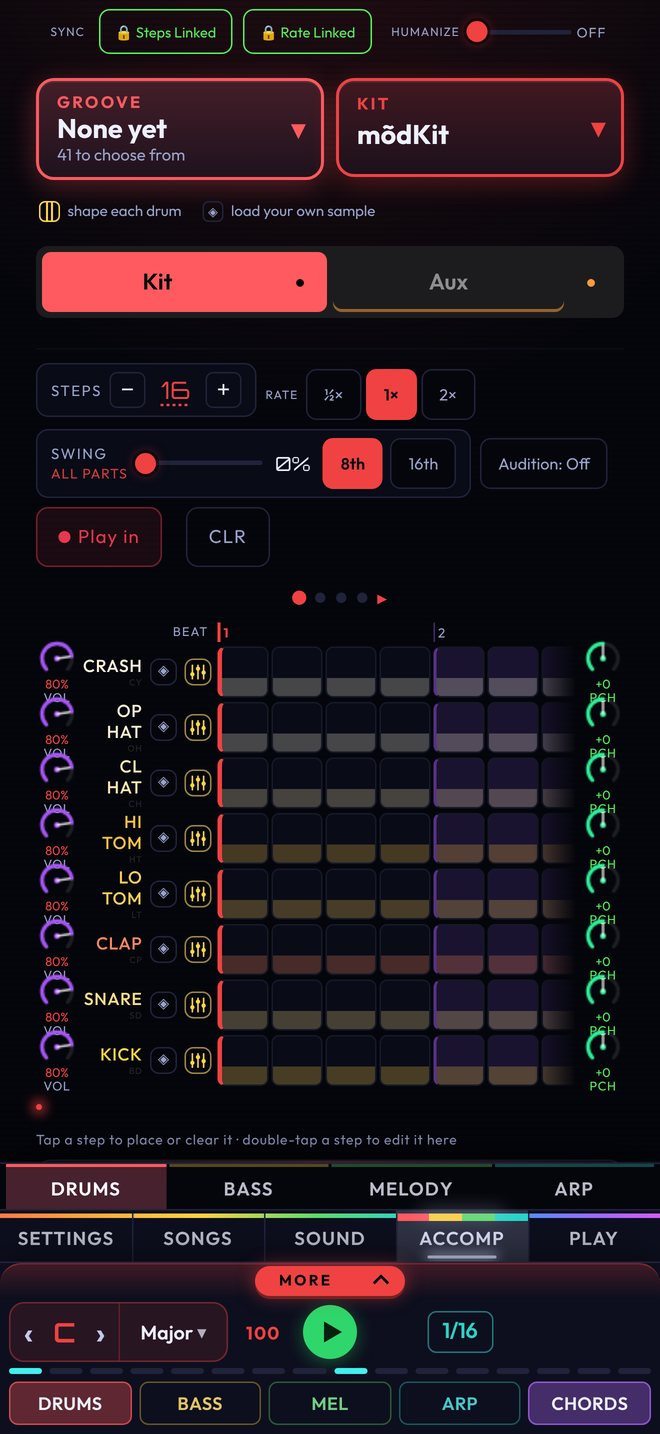
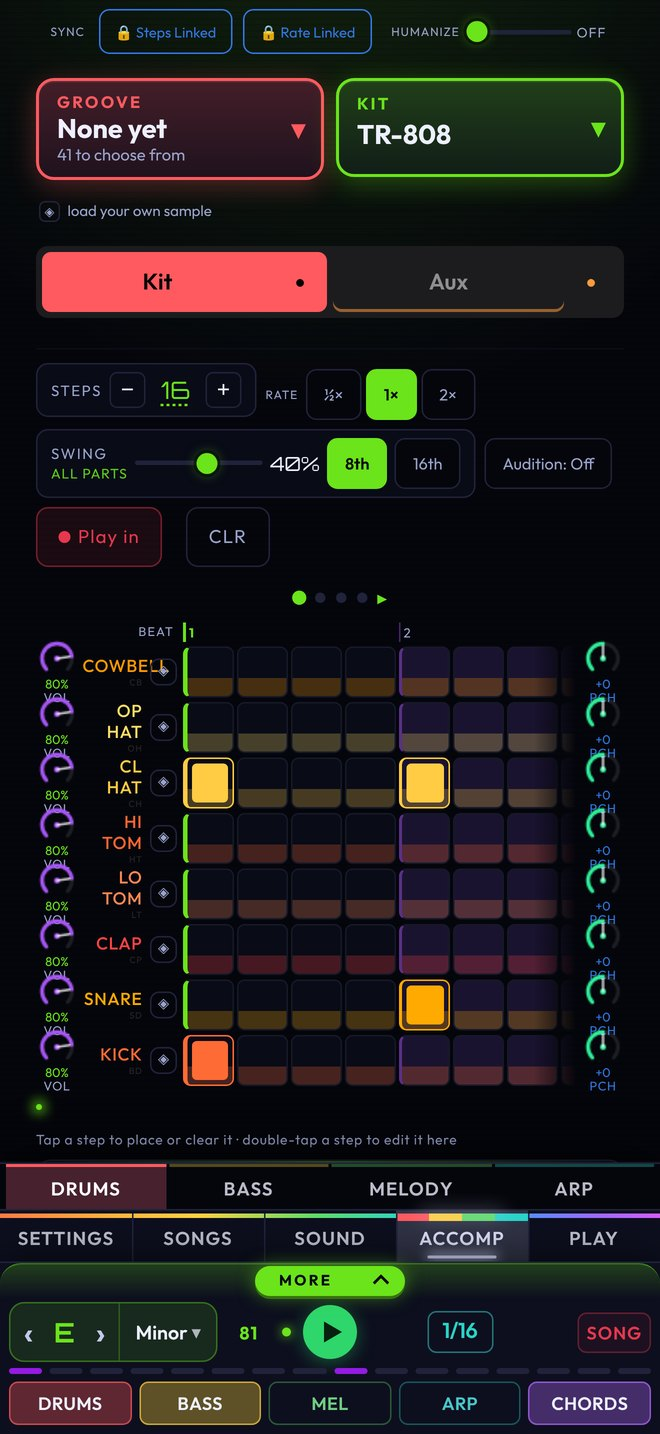
Retake the screenshots with real content and frame them as phones
Songs showed "No songs saved yet" and the progression was empty. The shots are
retaken after Random, so each screen has a song, a drum pattern and a chord
row, and sit in a bezel so they read as a phone.

Claude-Session: https://claude.ai/code/session_01Tw9QE15Kg11x3F7Ei6vjop

diff --git a/index.html b/index.html
@@ -47,11 +47,11 @@
   </section>
 
   <div class="shots" aria-label="Screenshots">
-    <figure><img src="assets/shots/splash.jpg" width="660" height="1434" alt="The mõdRïff splash screen: the wordmark over a spectrum of coloured level bars" loading="lazy"><figcaption>Every part, always in key</figcaption></figure>
-    <figure><img src="assets/shots/play.jpg" width="660" height="1434" alt="The Play tab: chord pads, a melody keyboard and a sampler" loading="lazy"><figcaption>Play</figcaption></figure>
-    <figure><img src="assets/shots/accomp.jpg" width="660" height="1434" alt="The Accomp tab: a drum sequencer" loading="lazy"><figcaption>Drums and accompaniment</figcaption></figure>
-    <figure><img src="assets/shots/sound.jpg" width="660" height="1434" alt="The Sound tab: a mixer with a channel for every part" loading="lazy"><figcaption>Mixer</figcaption></figure>
-    <figure><img src="assets/shots/songs.jpg" width="660" height="1434" alt="The Songs tab: a song builder with sections and a chord picker" loading="lazy"><figcaption>Song builder</figcaption></figure>
+    <figure><div class="phone"><img src="assets/shots/splash.jpg" width="660" height="1434" alt="The mõdRïff splash screen: the wordmark over a spectrum of coloured level bars"></div><figcaption>Every part, always in key</figcaption></figure>
+    <figure><div class="phone"><img src="assets/shots/play.jpg" width="660" height="1434" alt="The Play tab: coloured chord pads, a melody keyboard and a sampler" loading="lazy"></div><figcaption>Play</figcaption></figure>
+    <figure><div class="phone"><img src="assets/shots/accomp.jpg" width="660" height="1434" alt="The Accomp tab: a drum pattern on the step sequencer" loading="lazy"></div><figcaption>Drums and accompaniment</figcaption></figure>
+    <figure><div class="phone"><img src="assets/shots/songs.jpg" width="660" height="1434" alt="The Songs tab: a song with a chord progression" loading="lazy"></div><figcaption>Song builder</figcaption></figure>
+    <figure><div class="phone"><img src="assets/shots/sound.jpg" width="660" height="1434" alt="The Sound tab: a mixer with a channel for every part" loading="lazy"></div><figcaption>Mixer</figcaption></figure>
   </div>
 
   <section class="block wrap" id="features">

diff --git a/assets/site.css b/assets/site.css
@@ -47,10 +47,12 @@ h1 { font-size: clamp(34px, 7vw, 58px); line-height: 1.08; margin: 0 0 14px; let
 .btn.ghost { background: transparent; color: var(--text); border-color: #343a5c; }
 .note { color: var(--dim); font-size: 14px; margin-top: 14px; }
 
-.shots { display: flex; gap: 16px; overflow-x: auto; padding: 36px 16px 12px; scroll-snap-type: x mandatory; justify-content: safe center; }
-.shots figure { margin: 0; flex: 0 0 auto; width: min(240px, 62vw); scroll-snap-align: center; }
-.shots img { border-radius: 22px; border: 1px solid var(--line); background: var(--panel); }
-.shots figcaption { text-align: center; color: var(--dim); font-size: 14px; margin-top: 10px; }
+.shots { display: flex; gap: 22px; overflow-x: auto; padding: 40px 24px 16px; scroll-snap-type: x mandatory; justify-content: safe center; -webkit-overflow-scrolling: touch; }
+.shots figure { margin: 0; flex: 0 0 auto; width: min(214px, 64vw); scroll-snap-align: center; }
+/* A bezel, so a screen capture reads as a phone and not as a cropped picture. */
+.phone { background: #14172a; border: 1px solid #2a2f4d; border-radius: 30px; padding: 7px; box-shadow: 0 18px 44px rgba(0,0,0,.55), 0 0 0 1px rgba(255,255,255,.03) inset; }
+.phone img { border-radius: 23px; width: 100%; }
+.shots figcaption { text-align: center; color: var(--dim); font-size: 14px; margin-top: 14px; }
 
 section.block { padding: 56px 0 8px; }
 h2 { font-size: clamp(26px, 4.5vw, 36px); margin: 0 0 8px; letter-spacing: -.01em; }
